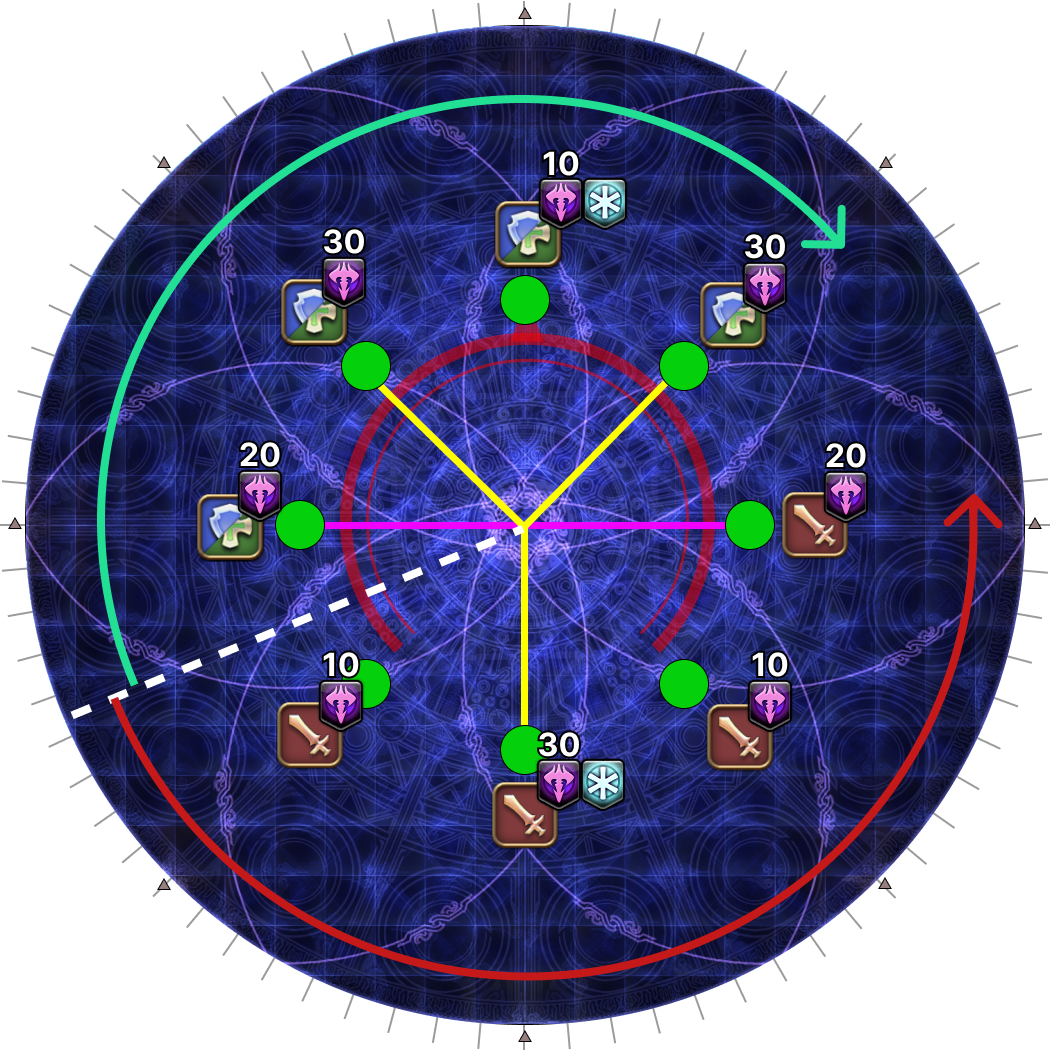
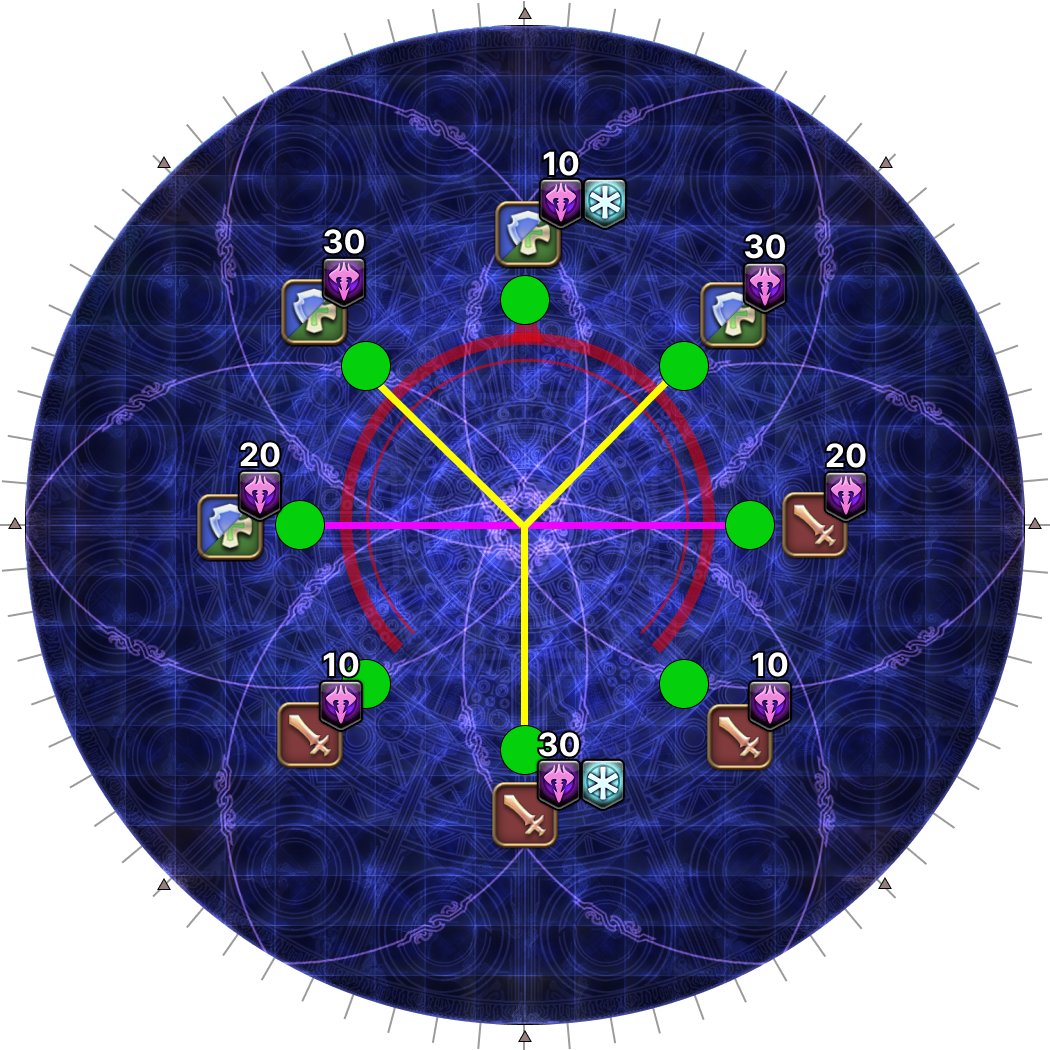
Remove Awk

diff --git a/_ultimates/fru/03_oracle_of_darkness.en.md b/_ultimates/fru/03_oracle_of_darkness.en.md
@@ -13,28 +13,21 @@ permalink: /ultimates/fru/03_oracle_of_darkness/
 <div style="background-color: #200 ; padding: 10px; border: 1px solid;">
 <p style="text-align:center"><b>Details may be missing, or subject to change
 until I have better first-hand experience.</b></p>
+<p>I'm also waiting for greater consensus on Apocalypse, so this phase will
+stay WIP for another week.</p>
 </div>
 
-- **Ultimate Relativity:**
-  - [**Awk**](#ultimate-relativity---awk) _or_ 
-  - [**Y Runytivity**](#ultimate-relativity---Y Runytivity)
+- [**Ultimate Relativity - Y Runytivity**](#ultimate-relativity---y-runytivity)
 - **Apocalypse:**
   - [**Permaswap**](#apocalypse---permaswap) _or_
   - [**Static Spreads**](#apocalypse---static-spreads)
 
 The Oracle of Darkness starts south, and immediately opens with *Hell's Judgment*, which sets everyone to 1HP.
 
-<div style="background-color: #200 ; padding: 10px; border: 1px solid;">
-<p><b>Note:</b> If, for some reason you have a buff that increases your max HP 
-(<em>Protraction</em>, <em>Thrill of Battle</em>, or <em>Great Nebula</em>, or 
-just food buffs expiring), that wears off between the snapshot and application, 
-this will kill you.</p>
-</div>
-
 She will then teleport to the middle of the arena and prepare her first
 major mechanic with a heavy raid-wide.
 
-## Ultimate Relativity
+## Ultimate Relativity - Y Runytivity
 
 When *Ultimate Relativity* resolves, there will be a lot of debuffs that go 
 out. However, you only need to check a limited set of debuffs.
@@ -59,42 +52,6 @@ The first step is to assign hourglasses to players. The basic rules are:
 - **Short fires** go to **empty** spots.
 - **Mid fires** go to the **purple** tethered spots.
 - **Long fires** go to the **yellow** tethered spots.
-
-After that, it's just a matter of how to assign players to hourglasses.
-
-### Ultimate Relativity - Awk
-
-This is my preferred method, and is a **map-relative** assignment.
-
-<table>
-  <tr>
-    <td>
-      <p><b>1.</b> Face the map's North, and find the first hourglass for your 
-      group:</p>
-      <ul>
-        <li><b>Tanks/Healers:</b> Start from N, go anti-clockwise.</li>
-        <li>Long fires follow the priority:
-          <ul>
-            <li><b>N (going ccw): </b> H2 > H1 > ST > MT <b>:NE</b></li>
-          </ul>
-        </li>
-        <li><b>DPS:</b> Start from NE, go clockwise.</li>
-        <li>Short fires follow the priority:
-          <ul>
-            <li><b>NE (going cw): </b> D4 > D3 > D2 > D1 <b>:N</b></li>
-          </ul>
-        </li>
-      </ul>
-    </td>
-  </tr>
-  <tr>
-    <td>
-      <img src="{{site.baseurl}}/images/ultimates/fru/03/ultimate_relativity_awk_01.jpg">
-    </td>
-  </tr>
-</table>
-
-### Ultimate Relativity - Y Runytivity
 
 This is a *tethers-relative* assigment, with a slightly modified priority to
 better match the datacenter's conventions.
@@ -307,6 +264,12 @@ After that, there is one main decision to make:
 
 - Whether you want the Water III adjustments will be permanent **(Permaswap)**, *or*
 - Whether you want the spreads and Apocalypse dodges to be consistent **(Static spreads)**.
+
+<div style="background-color: #200 ; padding: 10px; border: 1px solid;">
+<p style="text-align:center"><b>Note:</b> The diagrams below illustrate
+assigning sectors based on the "First-Apoc", instead of the safespots although 
+this detail is still up in the air.</p>
+</div>
 
 ## Apocalypse - Permaswap
 
@@ -779,6 +742,30 @@ must be brought down to under 20.0% HP to advance.
       spread out, then swap again to resolve the second Water. There are no 
       more spread mechanics after the second Water, so we can keep the groups 
       as they are to resolve the third Water.</p>
+    </td>
+  </tr>
+</table>
+</details>
+
+---
+
+## Troubleshooting
+
+<details markdown=block>
+<summary>
+  <b>[Hell's Judgment]</b> Isn't this supposed to set your HP to 1? How did I die?
+</summary>
+<table>
+  <tr>
+    <td>
+      <p>You had an effect that increased your maximum HP that wore off.</p>
+      <p>Examples include:</p>
+      <ul>
+        <li><em>Food buffs</em></li>
+        <li><em>Greater Nebula</em> (GNB)</li>
+        <li><em>Protraction</em> (SCH)</li>
+        <li><em>Thrill of Battle</em> (WAR)</li>
+      </ul>
     </td>
   </tr>
 </table>
